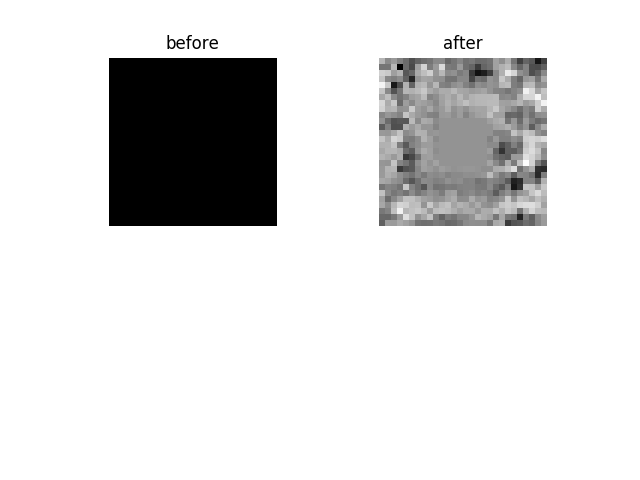
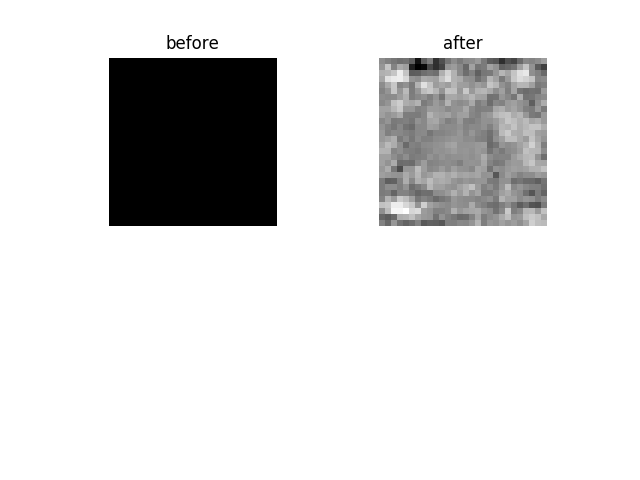
ready for submission

Changed region(s): [[0.5938, 0.0938, 0.875, 0.4688]]

diff --git a/exercise_2/exercise_2_4.py b/exercise_2/exercise_2_4.py
@@ -10,14 +10,20 @@ def reshape(data):
     return np.reshape(data, [-1, int(np.sqrt(data.shape)), int(np.sqrt(data.shape)), 1])
 
 
-def weight(shape):
-    initial_weight = tf.truncated_normal(shape, stddev=.1)
-    return tf.Variable(initial_weight, trainable=False)
+def weight(shape, name='', trainable=True):
+    if trainable:
+        initial_weight = tf.truncated_normal(shape, stddev=.1)
+    else:
+        initial_weight = np.load(_params_file + '.npz')[name]
+    return tf.Variable(initial_weight, trainable=trainable)
 
 
-def bias(shape):
-    initial_bias = tf.constant(.1, shape=shape)
-    return tf.Variable(initial_bias, trainable=False)
+def bias(shape, name='', trainable=True):
+    if trainable:
+        initial_bias = tf.constant(.1, shape=shape)
+    else:
+        initial_bias = np.load(_params_file + '.npz')[name]
+    return tf.Variable(initial_bias, trainable=trainable)
 
 
 def conv2d(x, w):
@@ -44,63 +50,61 @@ def minibatches(inputs, targets, mbs, shuffle):
 def main(file):
 
     eta = 1e-4
-    lambda_ = 0.04
-    mbs = 10
-    epochs = 25
-    graphs = True
-    num_classes = 10
-    two_convs = True
-    test_acc_list_one_conv = []
-    test_acc_list_two_convs = []
+    lambda_ = 600
+    filename = 'output_layer'
 
+    # initialize variable input
+    x = tf.Variable(tf.constant(.1, shape=[1, 28, 28, 1]), dtype=tf.float32)
 
-    logger.info('loading data from file  {}'.format(file))
-    x_tr, y_tr, x_te, y_te = load_data(file, num_classes)
-    x_tr = x_tr[0]
-    y_tr = y_tr[0]
-    logger.info('loading finished')
-
-    x = tf.Variable(tf.constant(x_tr, shape=(1, 28, 28, 1)))
-    #x = tf.placeholder(tf.float32, [None, 28, 28, 1])
-    y = tf.placeholder(tf.float32, [None, 10])
-
-    w_conv1 = weight([5, 5, 1, 32])
-    b_conv1 = bias([32])
+    w_conv1 = weight([5, 5, 1, 32], 'w_conv1', False)
+    b_conv1 = bias([32], 'b_conv1', False)
     h_conv1 = tf.nn.relu(conv2d(x, w_conv1) + b_conv1)
     h_pool1 = max_pool_2x2(h_conv1)
 
-
-    w_conv2 = weight([5, 5, 32, 64])
-    b_conv2 = bias([64])
+    w_conv2 = weight([5, 5, 32, 64], 'w_conv2', False)
+    b_conv2 = bias([64], 'b_conv2', False)
     h_conv2 = tf.nn.relu(conv2d(h_pool1, w_conv2) + b_conv2)
     h_pool2 = max_pool_2x2(h_conv2)
-    w_fc = weight([7 * 7 * 64, 1024])
-    b_fc = bias([1024])
 
+    w_fc = weight([7 * 7 * 64, 1024], 'w_fc', False)
+    b_fc = bias([1024], 'b_fc', False)
     h_pool_fc = tf.reshape(h_pool2, [-1, 7 * 7 * 64])
     h_fc = tf.nn.relu(tf.matmul(h_pool_fc, w_fc) + b_fc)
 
-    w_out = weight([1024, 10])
-    b_out = bias([10])
+    w_out = weight([1024, 10], 'w_out', False)
+    b_out = bias([10], 'b_out', False)
 
     pred = tf.matmul(h_fc, w_out) + b_out
 
-    loss = lambda_ * tf.reduce_mean(x)**2 - pred[0][0]
+    loss = lambda_ * tf.reduce_mean(x**2) - pred[0][0]
+    # optimize for activation of first unit in output layer
     train = tf.train.GradientDescentOptimizer(eta).minimize(loss)
 
     with tf.Session() as sess:
-        x = tf.Variable(tf.constant(x_tr, shape=(1, 28, 28, 1)))
         sess.run(tf.global_variables_initializer())
+
+        img = sess.run(x).reshape((28,28))
+        plt.subplot(2, 2, 1)
+        plt.title('before')
+        plt.imshow(img, cmap='Greys_r')
+        plt.axis('off')
+
         for i in range(100):
             print(sess.run(loss))
-            sess.run(train, {x: sess.run(x)})
-        plt.imshow(sess.run(x).reshape((28, 28)), cmap='Greys_r')
-        plt.show()
+            sess.run(train)
 
+        img2 = sess.run(x).reshape((28, 28))
+        plt.subplot(2, 2, 2)
+        plt.title('after')
+        plt.imshow(img2, cmap='Greys_r')
+        plt.axis('off')
+        plt.savefig('maximum_activation_neuron_in_{}.png'.format(filename))
 
 if __name__ == '__main__':
 
-    logger = logging.getLogger('ex2_2')
+    _params_file='all_params'
+
+    logger = logging.getLogger('ex2_4')
     logger.setLevel(logging.INFO)
     logging.getLogger().addHandler(logging.StreamHandler())
 
